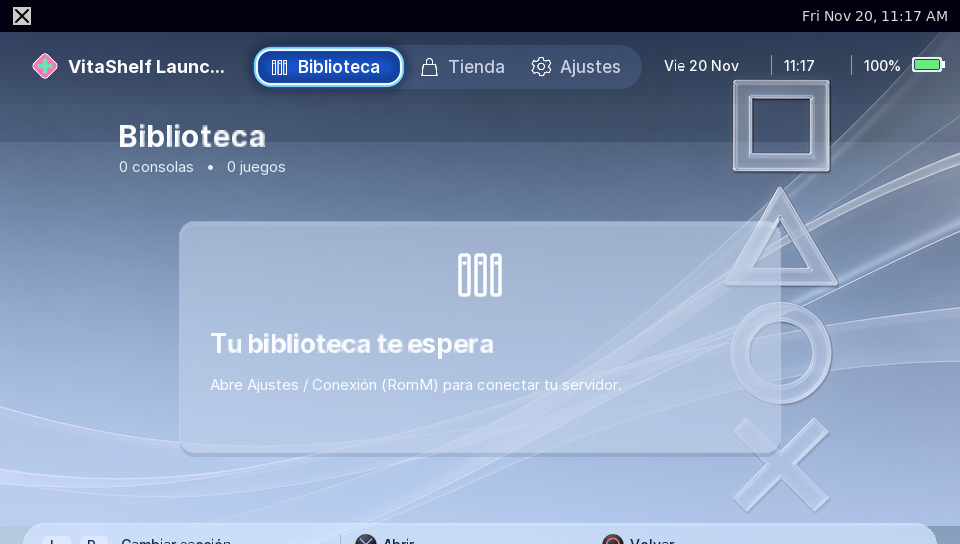
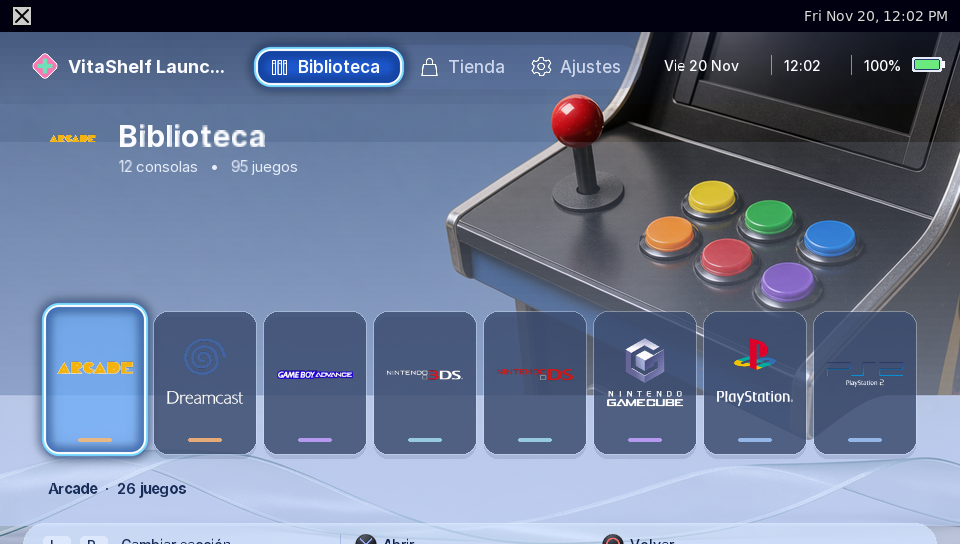
PATCH: showcase synced RomM library

diff --git a/README.md b/README.md
@@ -6,11 +6,11 @@ Homebrew launcher for PS Vita/PSTV. Browse your local library and connect your p
 
 ## Capturas / Screenshots
 
-Capturas reales de la app ejecutándose en Vita3K. La primera muestra la biblioteca inicial; la segunda indica dónde configurar tu servidor RomM. / Real screenshots of the app running in Vita3K. The first shows the initial library; the second points to the RomM server setup.
+Capturas reales de la app ejecutándose en Vita3K. La primera muestra una biblioteca sincronizada desde RomM; la segunda indica dónde configurar tu servidor RomM. / Real screenshots of the app running in Vita3K. The first shows a library synchronized from RomM; the second points to the RomM server setup.
 
 ### Biblioteca / Library
 
-![Biblioteca vacía de VitaShelf Launcher](docs/images/vitashelf-home.png)
+![Biblioteca de VitaShelf Launcher sincronizada desde RomM](docs/images/vitashelf-home.png)
 
 ### Conexión (RomM) / Connection (RomM)
 
